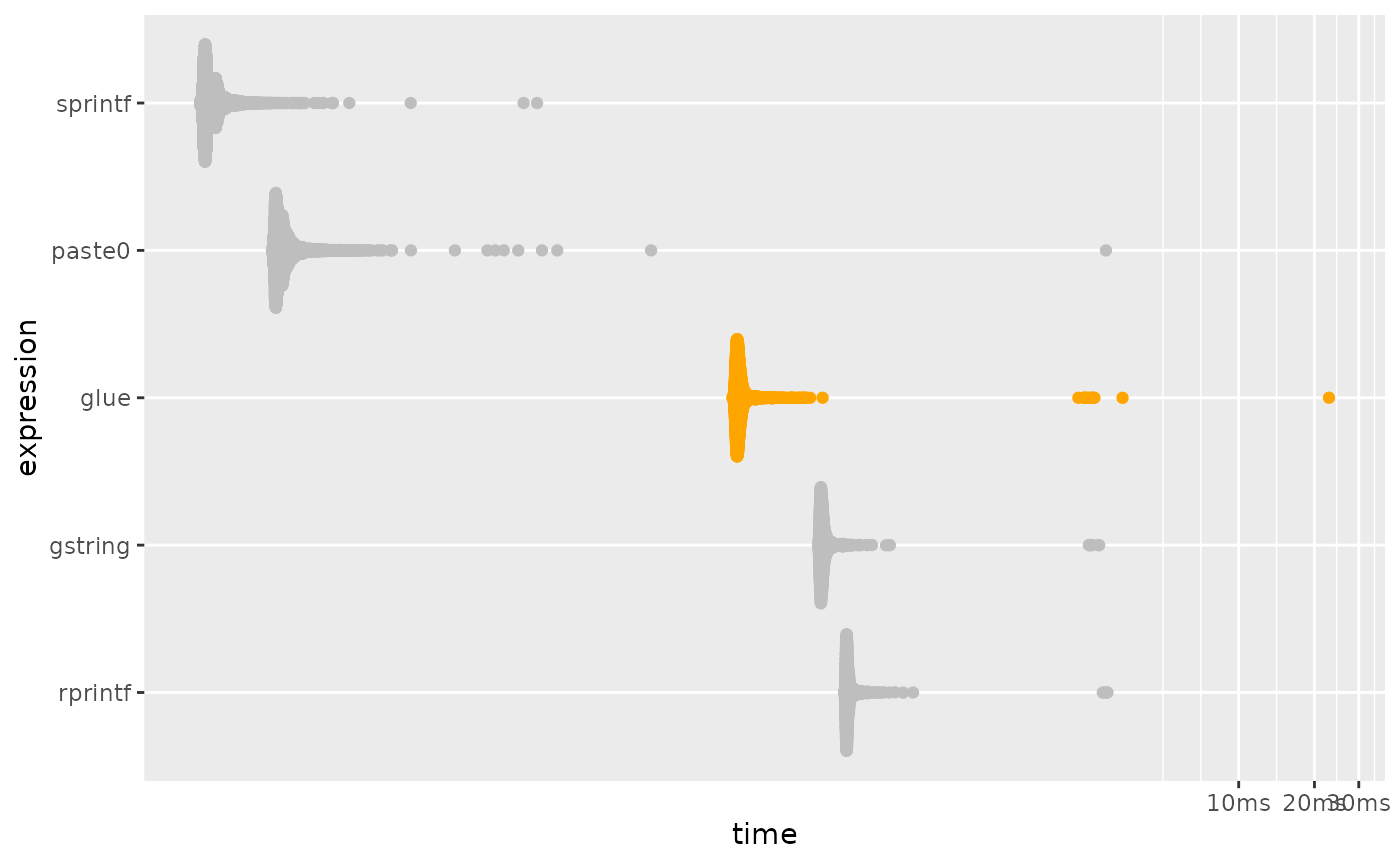
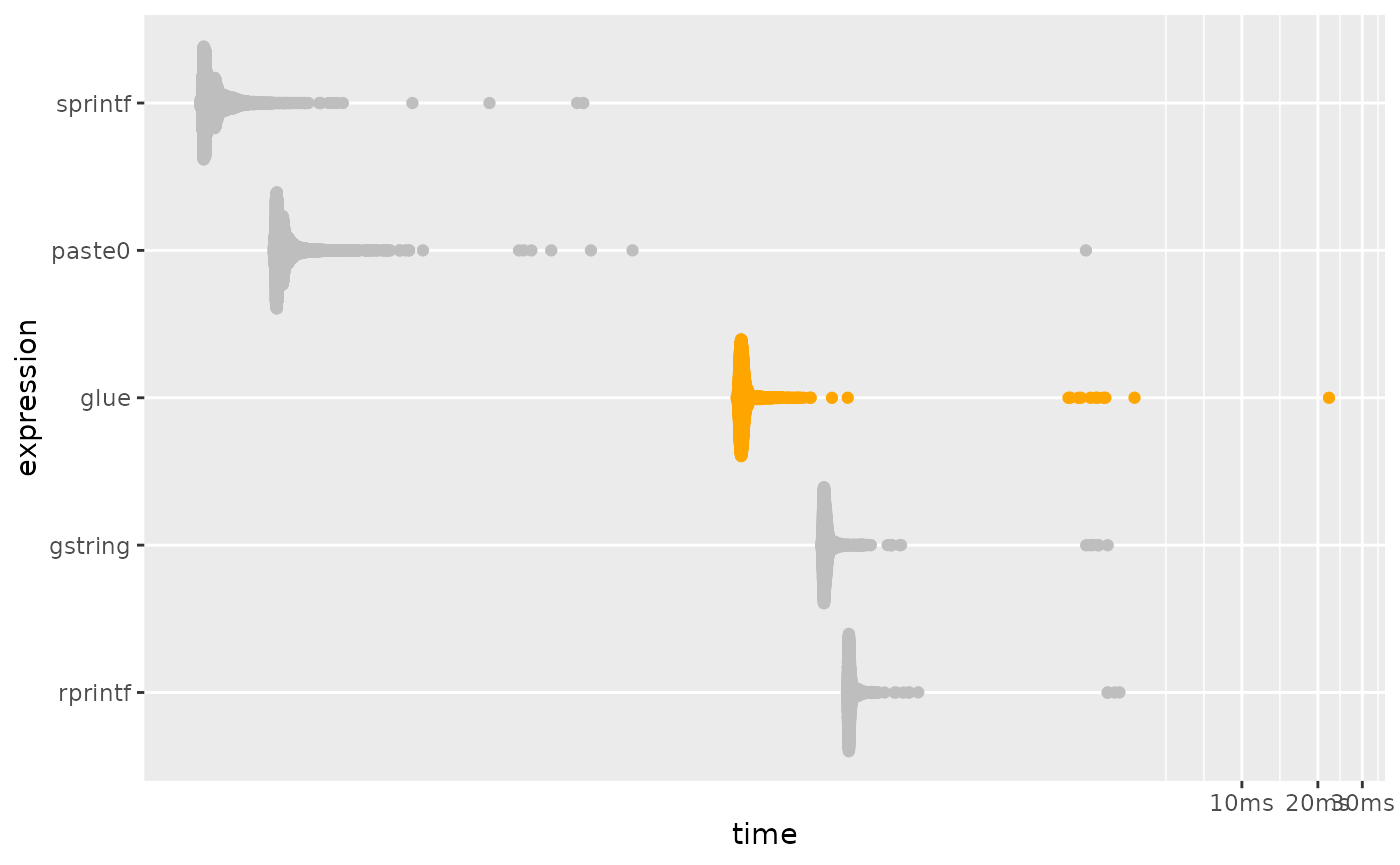
Deploying to gh-pages from @ tidyverse/glue@795f4c409c659cd8a835b02acab05fd515a37ba7 🚀

diff --git a/dev/articles/speed.html b/dev/articles/speed.html
@@ -153,11 +153,11 @@ this benchmark, but is now formally marked as “superseded”, in favor of
 <span><span class="co">#&gt; <span style="color: #949494;"># A tibble: 5 × 6</span></span></span>
 <span><span class="co">#&gt;   expression      min   median `itr/sec` mem_alloc `gc/sec`</span></span>
 <span><span class="co">#&gt;   <span style="color: #949494; font-style: italic;">&lt;bch:expr&gt;</span> <span style="color: #949494; font-style: italic;">&lt;bch:tm&gt;</span> <span style="color: #949494; font-style: italic;">&lt;bch:tm&gt;</span>     <span style="color: #949494; font-style: italic;">&lt;dbl&gt;</span> <span style="color: #949494; font-style: italic;">&lt;bch:byt&gt;</span>    <span style="color: #949494; font-style: italic;">&lt;dbl&gt;</span></span></span>
-<span><span class="co">#&gt; <span style="color: #BCBCBC;">1</span> sprintf       751ns 811.07ns  1<span style="text-decoration: underline;">177</span>042.        0B     0   </span></span>
-<span><span class="co">#&gt; <span style="color: #BCBCBC;">2</span> paste0       1.44µs   1.57µs   <span style="text-decoration: underline;">610</span>468.        0B    61.1 </span></span>
-<span><span class="co">#&gt; <span style="color: #BCBCBC;">3</span> glue         97.3µs 102.72µs     <span style="text-decoration: underline;">9</span>547.  140.44KB    26.8 </span></span>
-<span><span class="co">#&gt; <span style="color: #BCBCBC;">4</span> gstring    213.87µs    221µs     <span style="text-decoration: underline;">4</span>456.    2.45MB    14.5 </span></span>
-<span><span class="co">#&gt; <span style="color: #BCBCBC;">5</span> rprintf    270.51µs 278.26µs     <span style="text-decoration: underline;">3</span>541.  503.39KB     8.19</span></span>
+<span><span class="co">#&gt; <span style="color: #BCBCBC;">1</span> sprintf       751ns 832.02ns  1<span style="text-decoration: underline;">149</span>336.        0B     0   </span></span>
+<span><span class="co">#&gt; <span style="color: #BCBCBC;">2</span> paste0       1.46µs   1.57µs   <span style="text-decoration: underline;">611</span>045.        0B    61.1 </span></span>
+<span><span class="co">#&gt; <span style="color: #BCBCBC;">3</span> glue        99.59µs 104.73µs     <span style="text-decoration: underline;">9</span>387.  140.44KB    24.3 </span></span>
+<span><span class="co">#&gt; <span style="color: #BCBCBC;">4</span> gstring    216.09µs  223.2µs     <span style="text-decoration: underline;">4</span>392.    2.45MB    14.5 </span></span>
+<span><span class="co">#&gt; <span style="color: #BCBCBC;">5</span> rprintf    272.65µs 278.94µs     <span style="text-decoration: underline;">3</span>524.  503.39KB     8.20</span></span>
 <span></span>
 <span><span class="co"># plotting function defined in a hidden chunk</span></span>
 <span><span class="fu">plot_comparison</span><span class="op">(</span><span class="va">simple</span><span class="op">)</span></span>
@@ -206,11 +206,11 @@ performance is much closer to that of <code><a href="https://rdrr.io/r/base/past
 <span><span class="co">#&gt; <span style="color: #949494;"># A tibble: 5 × 6</span></span></span>
 <span><span class="co">#&gt;   expression      min   median `itr/sec` mem_alloc `gc/sec`</span></span>
 <span><span class="co">#&gt;   <span style="color: #949494; font-style: italic;">&lt;bch:expr&gt;</span> <span style="color: #949494; font-style: italic;">&lt;bch:tm&gt;</span> <span style="color: #949494; font-style: italic;">&lt;bch:tm&gt;</span>     <span style="color: #949494; font-style: italic;">&lt;dbl&gt;</span> <span style="color: #949494; font-style: italic;">&lt;bch:byt&gt;</span>    <span style="color: #949494; font-style: italic;">&lt;dbl&gt;</span></span></span>
-<span><span class="co">#&gt; <span style="color: #BCBCBC;">1</span> paste0       8.17ms   8.23ms     120.    781.3KB     6.45</span></span>
-<span><span class="co">#&gt; <span style="color: #BCBCBC;">2</span> sprintf      8.94ms   8.98ms     110.    781.3KB     2.04</span></span>
-<span><span class="co">#&gt; <span style="color: #BCBCBC;">3</span> gstring     10.99ms  11.07ms      90.1    1.53MB     9.01</span></span>
-<span><span class="co">#&gt; <span style="color: #BCBCBC;">4</span> glue        11.33ms  11.75ms      85.0    2.29MB    11.5 </span></span>
-<span><span class="co">#&gt; <span style="color: #BCBCBC;">5</span> rprintf     28.76ms  29.06ms      34.1    3.05MB     4.55</span></span>
+<span><span class="co">#&gt; <span style="color: #BCBCBC;">1</span> paste0       8.27ms   8.31ms     118.    781.3KB     6.34</span></span>
+<span><span class="co">#&gt; <span style="color: #BCBCBC;">2</span> sprintf      9.09ms   9.19ms     109.    781.3KB     4.19</span></span>
+<span><span class="co">#&gt; <span style="color: #BCBCBC;">3</span> gstring     11.08ms   11.2ms      89.1    1.53MB     8.91</span></span>
+<span><span class="co">#&gt; <span style="color: #BCBCBC;">4</span> glue        11.61ms  12.32ms      79.9    2.29MB     9.13</span></span>
+<span><span class="co">#&gt; <span style="color: #BCBCBC;">5</span> rprintf     29.68ms   29.8ms      33.5    3.05MB    10.3</span></span>
 <span></span>
 <span><span class="co"># plotting function defined in a hidden chunk</span></span>
 <span><span class="fu">plot_comparison</span><span class="op">(</span><span class="va">vectorized</span><span class="op">)</span></span></code></pre></div>
